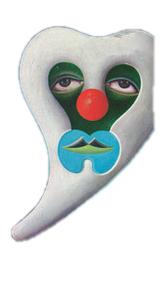
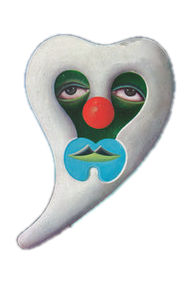
Arrastre de elementos, movimiento autónomo y mejor encuadre móvil
- Los objetos ahora se pueden arrastrar con el dedo o el mouse
  (detección por alpha, ignoran zonas transparentes) y siguen
  flotando alrededor de donde se sueltan
- Deriva automática de cámara cuando nadie interactúa, con
  amplitudes mayores en pantallas táctiles
- Cara fantasma reextraída completa (el borde derecho quedaba cortado)
- Fondo extendido también verticalmente (1600x1280): en el celular
  se ve la composición completa en vez de un recorte gigante
- touch-action none en el canvas para arrastrar sin hacer scroll

Claude-Session: https://claude.ai/code/session_01C8KKhFxrvZ9KA7VLUDzBJT

Changed region(s): [[0.0602, 0.0839, 0.9337, 0.8671], [0.1807, 0.7273, 0.2108, 0.7552], [0.1506, 0.3636, 0.1807, 0.3916]]

diff --git a/main.js b/main.js
@@ -4,6 +4,8 @@ import * as THREE from './vendor/three.module.js';
 //  Pink Moon — escena viva basada en la portada del disco.
 //  La portada fue separada en capas (fondo, luna, objetos)
 //  y aquí se recompone con profundidad, parallax y deriva.
+//  Los objetos se pueden arrastrar con el dedo o el mouse y
+//  siguen flotando solos alrededor de donde los dejes.
 // ============================================================
 
 // Más adelante: pega aquí el ID de un video/playlist de YouTube
@@ -11,20 +13,22 @@ import * as THREE from './vendor/three.module.js';
 const YOUTUBE_VIDEO_ID = '';
 
 const ART = 640; // la portada vive en un espacio de 640x640 (y hacia abajo)
+const BG_W = 1600, BG_H = 1280; // fondo extendido para pantallas anchas/altas
+
 const reduceMotion = window.matchMedia('(prefers-reduced-motion: reduce)').matches;
-const MOTION = reduceMotion ? 0.25 : 1;
+const coarse = window.matchMedia('(pointer: coarse)').matches;
+// en pantallas táctiles el movimiento autónomo es más notorio
+const MOTION = reduceMotion ? 0.25 : (coarse ? 1.6 : 1);
 
 // offset (x,y desde arriba-izquierda de la portada), tamaño y profundidad z
-// el fondo es una versión extendida a 1600px para pantallas anchas
-const BG_W = 1600;
 const LAYERS = {
-  bg:     { url: 'assets/bg.png',     x: (ART - BG_W) / 2, y: 0, w: BG_W, h: ART, z: -60, scale: 1.04 },
-  sphere: { url: 'assets/sphere.png', x: 139, y: 107, w: 346, h: 438, z: -30 },
-  shell:  { url: 'assets/shell.png',  x: 0,   y: 486, w: 104, h: 88,  z: -16 },
-  leaf:   { url: 'assets/leaf.png',   x: 101, y: 61,  w: 173, h: 139, z: -12 },
-  stamp:  { url: 'assets/stamp.png',  x: 245, y: 197, w: 115, h: 158, z: -10 },
-  teacup: { url: 'assets/teacup.png', x: 60,  y: 184, w: 185, h: 164, z: -8  },
-  face:   { url: 'assets/face.png',   x: 412, y: 26,  w: 166, h: 286, z: -6  },
+  bg:     { url: 'assets/bg.png',     x: (ART - BG_W) / 2, y: (ART - BG_H) / 2, w: BG_W, h: BG_H, z: -60 },
+  sphere: { url: 'assets/sphere.png', x: 139, y: 107, w: 346, h: 438, z: -30, drag: true },
+  shell:  { url: 'assets/shell.png',  x: 0,   y: 486, w: 104, h: 88,  z: -16, drag: true },
+  leaf:   { url: 'assets/leaf.png',   x: 101, y: 61,  w: 173, h: 139, z: -12, drag: true },
+  stamp:  { url: 'assets/stamp.png',  x: 245, y: 197, w: 115, h: 158, z: -10, drag: true },
+  teacup: { url: 'assets/teacup.png', x: 60,  y: 184, w: 185, h: 164, z: -8,  drag: true },
+  face:   { url: 'assets/face.png',   x: 406, y: 18,  w: 196, h: 298, z: -6,  drag: true },
 };
 
 const canvas = document.getElementById('scene');
@@ -41,8 +45,8 @@ camera.position.z = 10;
 function resize() {
   const vw = window.innerWidth, vh = window.innerHeight;
   renderer.setSize(vw, vh);
-  // la composición completa cabe en alto; el fondo extendido cubre los lados
-  const s = Math.max(vh / ART, vw / BG_W);
+  // la composición completa cabe en pantalla; el fondo extendido cubre el resto
+  const s = Math.max(Math.min(vw, vh) / ART, vw / BG_W, vh / BG_H);
   const halfW = vw / s / 2, halfH = vh / s / 2;
   camera.left = -halfW; camera.right = halfW;
   camera.top = halfH; camera.bottom = -halfH;
@@ -57,19 +61,30 @@ const wy = (y) => ART / 2 - y;
 
 const loader = new THREE.TextureLoader();
 const sprites = {};
+const draggables = [];
 
 for (const [name, L] of Object.entries(LAYERS)) {
-  const tex = loader.load(L.url);
+  const tex = loader.load(L.url, (t) => {
+    // mapa de alpha para que el arrastre ignore las zonas transparentes
+    if (L.drag && t.image) {
+      const c = document.createElement('canvas');
+      c.width = t.image.width; c.height = t.image.height;
+      const g = c.getContext('2d', { willReadFrequently: true });
+      g.drawImage(t.image, 0, 0);
+      mesh.userData.alpha = g.getImageData(0, 0, c.width, c.height);
+    }
+  });
   tex.colorSpace = THREE.SRGBColorSpace;
   const mat = new THREE.MeshBasicMaterial({ map: tex, transparent: name !== 'bg' });
   const mesh = new THREE.Mesh(new THREE.PlaneGeometry(L.w, L.h), mat);
   const cx = wx(L.x + L.w / 2), cy = wy(L.y + L.h / 2);
   mesh.position.set(cx, cy, L.z);
-  if (L.scale) mesh.scale.setScalar(L.scale);
-  mesh.userData = { cx, cy, z: L.z, baseScale: L.scale || 1 };
+  mesh.userData = { name, cx, cy, z: L.z };
   scene.add(mesh);
   sprites[name] = mesh;
+  if (L.drag) draggables.push(mesh);
 }
+draggables.sort((a, b) => b.userData.z - a.userData.z); // los de adelante primero
 
 // ---------- halo rosa de la luna ----------
 function radialTexture(inner, outer) {
@@ -140,20 +155,91 @@ function makePoints(n, area, size, color) {
   return mat;
 }
 
-const starsMat = makePoints(70, { x0: 10, x1: 630, y0: 8, y1: 210, z: -55 }, 2.6, '#cfe0ea');
-const firefliesMat = makePoints(22, { x0: 20, x1: 620, y0: 400, y1: 620, z: -14 }, 3.4, '#ffd9a0');
+const starsMat = makePoints(70, { x0: -440, x1: 1080, y0: -300, y1: 210, z: -55 }, 2.6, '#cfe0ea');
+const firefliesMat = makePoints(26, { x0: -200, x1: 840, y0: 400, y1: 900, z: -14 }, 3.4, '#ffd9a0');
 
-// ---------- parallax con mouse / giroscopio ----------
+// ---------- parallax: mouse, dedo o giroscopio; deriva sola si nadie toca ----------
 const pointer = { x: 0, y: 0 }, eased = { x: 0, y: 0 };
-window.addEventListener('pointermove', (e) => {
-  pointer.x = (e.clientX / window.innerWidth) * 2 - 1;
-  pointer.y = (e.clientY / window.innerHeight) * 2 - 1;
-});
+let lastInput = -10;
+let dragging = null;
+
+function setPointer(clientX, clientY) {
+  pointer.x = (clientX / window.innerWidth) * 2 - 1;
+  pointer.y = (clientY / window.innerHeight) * 2 - 1;
+  lastInput = clock.getElapsedTime();
+}
+
 window.addEventListener('deviceorientation', (e) => {
-  if (e.gamma == null) return;
+  if (e.gamma == null || e.beta == null) return;
   pointer.x = THREE.MathUtils.clamp(e.gamma / 25, -1, 1);
   pointer.y = THREE.MathUtils.clamp((e.beta - 45) / 25, -1, 1);
+  lastInput = clock.getElapsedTime();
 });
+
+// ---------- arrastrar objetos ----------
+const raycaster = new THREE.Raycaster();
+const ndc = new THREE.Vector2();
+
+function pointerToWorld(clientX, clientY) {
+  const x = camera.left + (clientX / window.innerWidth) * (camera.right - camera.left);
+  const y = camera.top - (clientY / window.innerHeight) * (camera.top - camera.bottom);
+  return { x, y };
+}
+
+function pick(clientX, clientY) {
+  ndc.set((clientX / window.innerWidth) * 2 - 1, -(clientY / window.innerHeight) * 2 + 1);
+  raycaster.setFromCamera(ndc, camera);
+  for (const mesh of draggables) {
+    const hit = raycaster.intersectObject(mesh)[0];
+    if (!hit || !hit.uv) continue;
+    const a = mesh.userData.alpha;
+    if (a) {
+      const px = Math.floor(hit.uv.x * (a.width - 1));
+      const py = Math.floor((1 - hit.uv.y) * (a.height - 1));
+      if (a.data[(py * a.width + px) * 4 + 3] < 60) continue; // zona transparente
+    }
+    return mesh;
+  }
+  return null;
+}
+
+canvas.addEventListener('pointerdown', (e) => {
+  const mesh = pick(e.clientX, e.clientY);
+  setPointer(e.clientX, e.clientY);
+  if (!mesh) return;
+  const w = pointerToWorld(e.clientX, e.clientY);
+  dragging = {
+    mesh,
+    dx: w.x - mesh.userData.cx,
+    dy: w.y - mesh.userData.cy,
+  };
+  canvas.setPointerCapture(e.pointerId);
+  canvas.style.cursor = 'grabbing';
+});
+
+canvas.addEventListener('pointermove', (e) => {
+  if (dragging) {
+    const w = pointerToWorld(e.clientX, e.clientY);
+    // el objeto sigue al dedo con un poco de elasticidad y sigue respirando
+    dragging.mesh.userData.cx += (w.x - dragging.dx - dragging.mesh.userData.cx) * 0.35;
+    dragging.mesh.userData.cy += (w.y - dragging.dy - dragging.mesh.userData.cy) * 0.35;
+    lastInput = clock.getElapsedTime();
+  } else {
+    setPointer(e.clientX, e.clientY);
+    if (!coarse) canvas.style.cursor = pick(e.clientX, e.clientY) ? 'grab' : 'default';
+  }
+});
+
+function endDrag(e) {
+  if (!dragging) return;
+  dragging = null;
+  canvas.style.cursor = 'default';
+  if (e.pointerId != null && canvas.hasPointerCapture(e.pointerId)) {
+    canvas.releasePointerCapture(e.pointerId);
+  }
+}
+canvas.addEventListener('pointerup', endDrag);
+canvas.addEventListener('pointercancel', endDrag);
 
 // ---------- animación ----------
 const clock = new THREE.Clock();
@@ -163,8 +249,12 @@ function animate() {
   const t = clock.getElapsedTime();
   const M = MOTION;
 
-  eased.x += (pointer.x - eased.x) * 0.04;
-  eased.y += (pointer.y - eased.y) * 0.04;
+  // si nadie mueve el mouse ni toca la pantalla, la escena deriva sola
+  const idle = THREE.MathUtils.clamp((t - lastInput - 2.5) / 2, 0, 1);
+  const tx = THREE.MathUtils.lerp(pointer.x, 0.55 * Math.sin(t * 0.13), idle);
+  const ty = THREE.MathUtils.lerp(pointer.y, 0.4 * Math.sin(t * 0.09 + 1.7), idle);
+  eased.x += (tx - eased.x) * 0.035;
+  eased.y += (ty - eased.y) * 0.035;
 
   for (const mesh of Object.values(sprites)) {
     const { cx, cy, z } = mesh.userData;

diff --git a/style.css b/style.css
@@ -14,6 +14,7 @@ html, body {
   width: 100%;
   height: 100%;
   display: block;
+  touch-action: none; /* permite arrastrar elementos con el dedo */
 }
 
 /* ---------- title, styled after the cover typography ---------- */